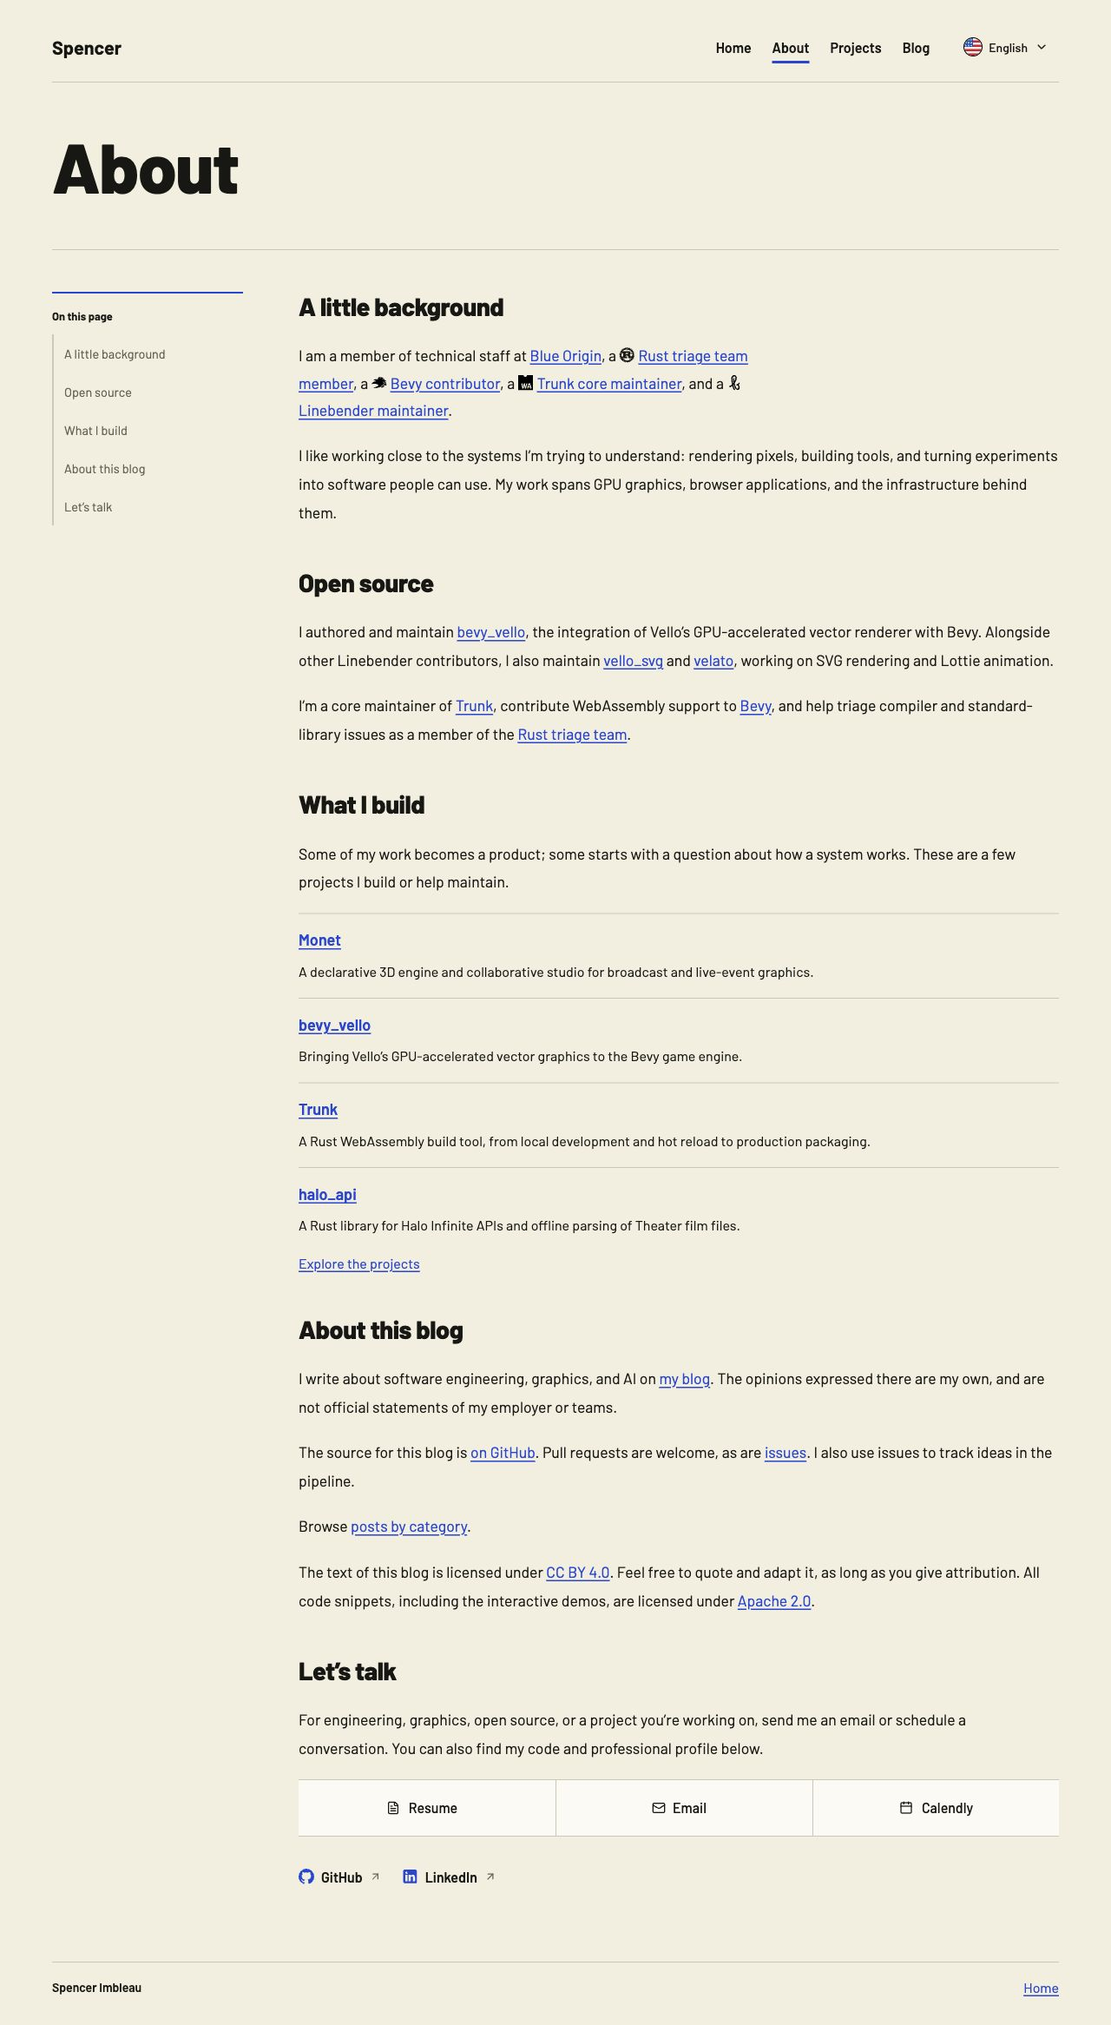
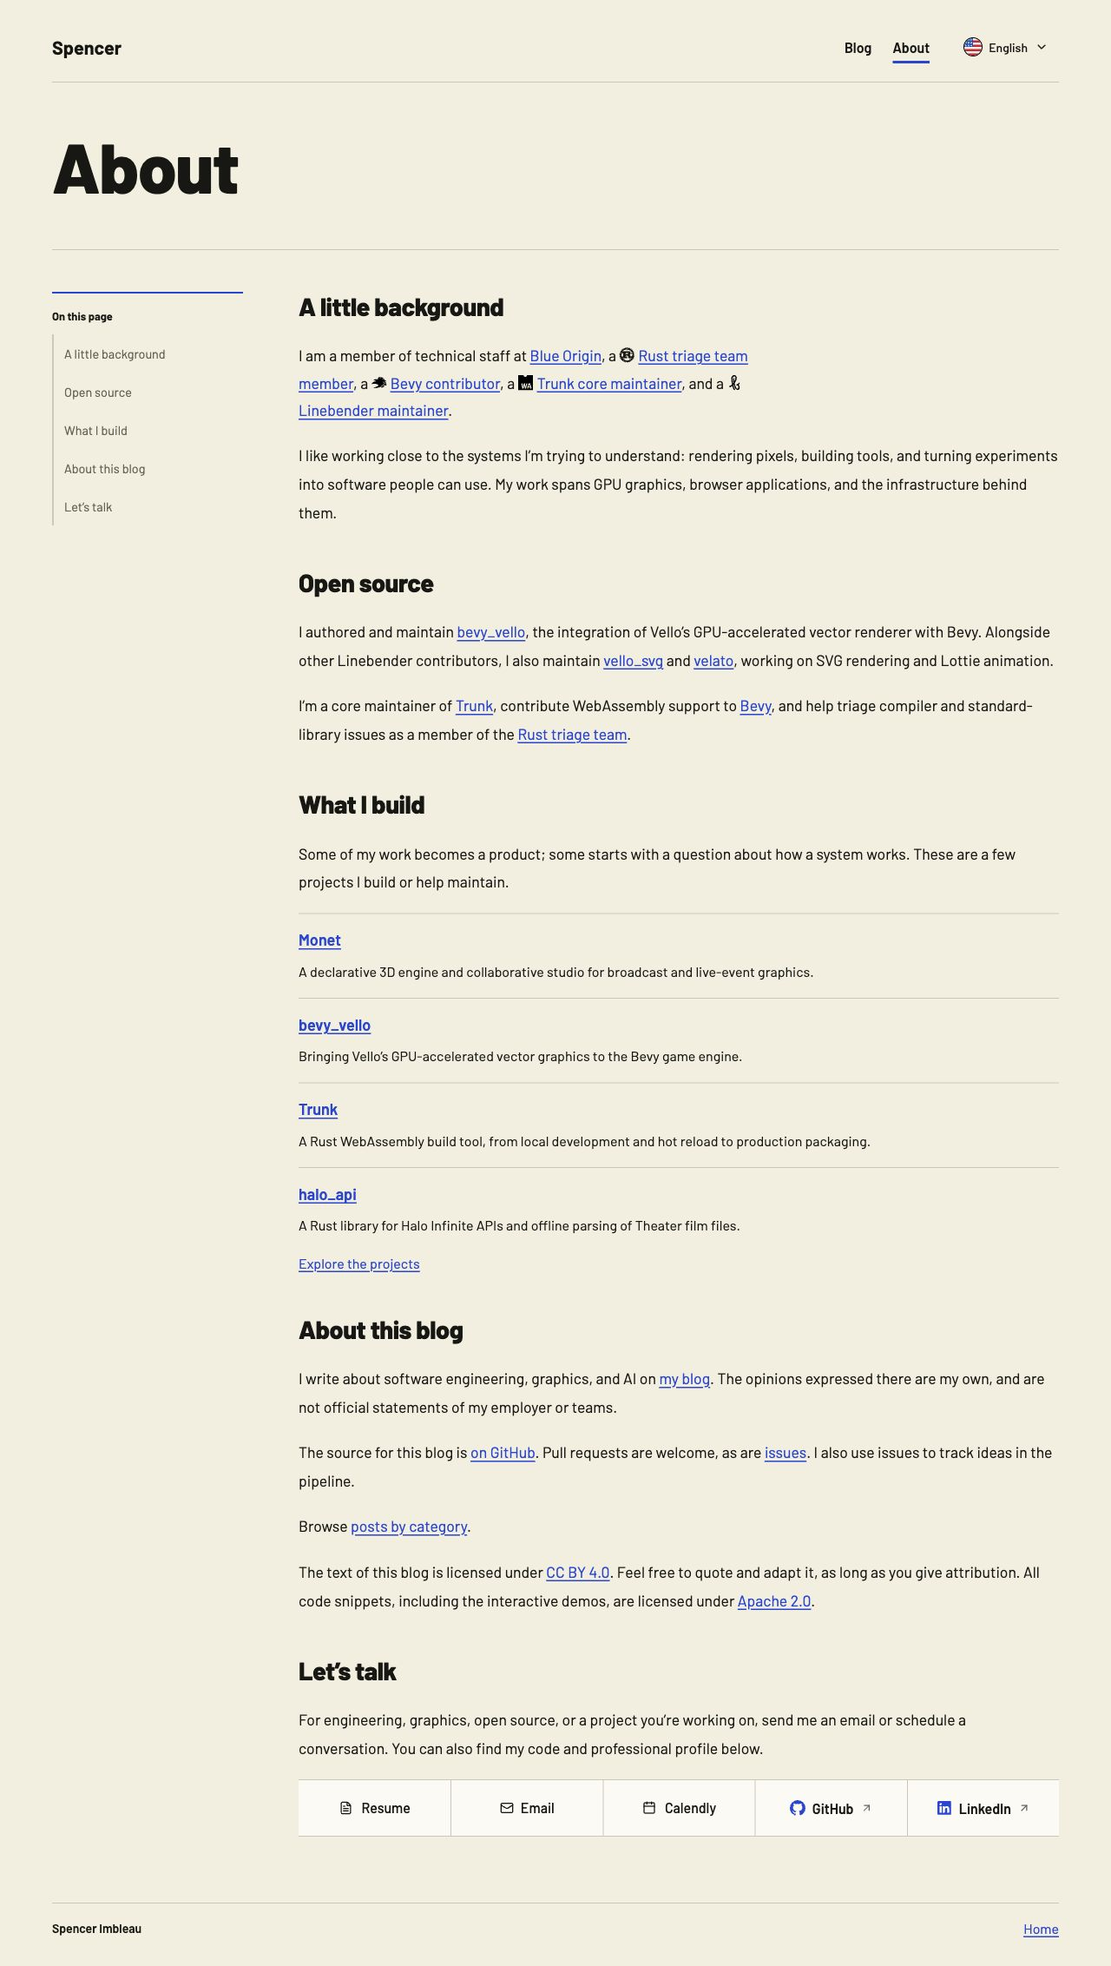
feat: streamline navigation and profile controls

diff --git a/src/pages/ResumePage.tsx b/src/pages/ResumePage.tsx
@@ -9,7 +9,7 @@ import { useProfile } from "@/hooks/useProfile"
 import { getProfileHomePath } from "@/profiles"
 
 export const ResumePage = () => {
-    const { t, routePrefix, localizedPath } = useLanguage()
+    const { t, language, routePrefix, localizedPath } = useLanguage()
     const profile = useProfile()
     const profileId = profile.id
     const resume = profile.resume
@@ -20,6 +20,16 @@ export const ResumePage = () => {
     const [showLoadingHelp, setShowLoadingHelp] = useState(false)
     const [downloading, setDownloading] = useState(false)
     const [downloadProgress, setDownloadProgress] = useState(0)
+    const [fileSize, setFileSize] = useState<number | null>(null)
+    const fileSizeLabel =
+        fileSize === null
+            ? null
+            : new Intl.NumberFormat(language, {
+                  style: "unit",
+                  unit: fileSize >= 1_000_000 ? "megabyte" : "kilobyte",
+                  unitDisplay: "narrow",
+                  maximumFractionDigits: fileSize >= 1_000_000 ? 1 : 0,
+              }).format(fileSize / (fileSize >= 1_000_000 ? 1_000_000 : 1_000))
     const [btnWidth, setBtnWidth] = useState<number | undefined>(undefined)
     const btnRef = useRef<HTMLButtonElement>(null)
 
@@ -29,6 +39,20 @@ export const ResumePage = () => {
         const timeout = window.setTimeout(() => setShowLoadingHelp(true), 4000)
         return () => window.clearTimeout(timeout)
     }, [loading])
+
+    useEffect(() => {
+        if (!resume) return
+        const controller = new AbortController()
+        fetch(resume.pdfUrl, { method: "HEAD", signal: controller.signal })
+            .then((response) => {
+                const bytes = Number(response.headers.get("content-length"))
+                if (response.ok && bytes > 0 && Number.isFinite(bytes) && !controller.signal.aborted) setFileSize(bytes)
+            })
+            .catch(() => {
+                /* Download remains available when file metadata cannot be fetched. */
+            })
+        return () => controller.abort()
+    }, [resume])
 
     const handleDownload = async () => {
         if (btnRef.current) setBtnWidth(btnRef.current.offsetWidth)
@@ -61,6 +85,7 @@ export const ResumePage = () => {
                 blob = await res.blob()
             }
 
+            setFileSize(blob.size)
             const url = URL.createObjectURL(blob)
             const anchor = document.createElement("a")
             anchor.href = url
@@ -138,31 +163,36 @@ export const ResumePage = () => {
                             {text("goBack")}
                         </a>
                     </Button>
-                    <Button
-                        ref={btnRef}
-                        size="sm"
-                        style={{ minWidth: btnWidth }}
-                        disabled={downloading}
-                        onClick={handleDownload}
-                        aria-busy={downloading}
-                    >
-                        {downloading ? (
-                            <LoaderCircle aria-hidden="true" className="animate-spin" />
-                        ) : (
-                            <Download aria-hidden="true" />
-                        )}
-                        <span>
-                            {downloading
-                                ? downloadProgress > 0
-                                    ? `${downloadProgress}%`
-                                    : text("downloading")
-                                : text("downloadResume")}
-                        </span>
-                    </Button>
+                    <div className="resume-download-actions">
+                        <a
+                            className="text-link text-sm"
+                            href={resume?.pdfUrl}
+                            target="_blank"
+                            rel="noopener noreferrer"
+                        >
+                            {text("openPdf")}
+                        </a>
+                        <Button
+                            ref={btnRef}
+                            size="sm"
+                            style={{ minWidth: btnWidth }}
+                            disabled={downloading}
+                            onClick={handleDownload}
+                            aria-busy={downloading}
+                            aria-label={downloading ? text("downloading") : text("downloadResume")}
+                            title={text("downloadResume")}
+                        >
+                            {downloading ? (
+                                <LoaderCircle aria-hidden="true" className="animate-spin" />
+                            ) : (
+                                <Download aria-hidden="true" />
+                            )}
+                            <span aria-hidden="true">
+                                {downloading && downloadProgress > 0 ? `${downloadProgress}%` : fileSizeLabel}
+                            </span>
+                        </Button>
+                    </div>
                 </div>
-                <a className="text-link mt-3 text-sm" href={resume?.pdfUrl} target="_blank" rel="noopener noreferrer">
-                    {text("openPdf")}
-                </a>
             </div>
         </>
     )

diff --git a/src/index.css b/src/index.css
@@ -439,6 +439,7 @@
 }
 .action-strip {
     display: grid;
+    gap: 0;
     grid-auto-flow: column;
     grid-auto-columns: minmax(0, 1fr);
     border-block: 1px solid var(--color-border);
@@ -857,14 +858,11 @@
         gap: 4px;
     }
     .site-navigation > button {
-        margin-inline-start: auto;
+        margin-inline-start: 8px;
     }
     .site-nav-links {
-        order: 3;
-        width: 100%;
-        margin-top: 8px;
-        margin-inline-start: 0;
-        gap: 24px;
+        margin-inline-start: auto;
+        gap: 16px;
     }
     .portfolio-page .profile-hero {
         grid-template-columns: minmax(0, 1fr);
@@ -925,10 +923,6 @@
     .profile-brand {
         flex: 1;
     }
-    .profile-brand > button {
-        font-size: 1rem;
-        padding-inline: 4px;
-    }
     .site-navigation > button {
         padding-inline: 4px;
     }
@@ -939,10 +933,58 @@
         padding-inline: 6px;
     }
     .site-nav-links {
-        justify-content: space-between;
-        gap: 10px;
+        justify-content: flex-start;
+        gap: 12px;
     }
     .site-nav-links a {
         font-size: 0.9rem;
     }
+}
+
+.action-strip > .social-strip {
+    display: contents;
+}
+.action-strip .social-strip a {
+    margin: 0;
+    min-height: 64px;
+    justify-content: center;
+    border-inline-start: 1px solid var(--color-border);
+}
+@media (max-width: 599px) {
+    .action-strip {
+        grid-auto-flow: row;
+        grid-template-columns: repeat(6, minmax(0, 1fr));
+    }
+    .action-strip > a,
+    .action-strip > .email-action {
+        grid-column: span 2;
+    }
+    .action-strip .social-strip a {
+        grid-column: span 3;
+        border-top: 1px solid var(--color-border);
+    }
+    .action-strip .social-strip a:first-child {
+        border-inline-start: 0;
+    }
+}
+
+@media (max-width: 599px) {
+    .action-strip:has(.social-strip a:only-child) > a,
+    .action-strip:has(.social-strip a:only-child) > .email-action {
+        grid-column: span 3;
+    }
+    .action-strip .social-strip a:only-child {
+        grid-column: 1 / -1;
+    }
+}
+
+.resume-download-actions {
+    display: flex;
+    align-items: center;
+    gap: 16px;
+}
+.resume-download-actions > a {
+    display: inline-flex;
+    align-items: center;
+    min-height: 44px;
 }

diff --git a/src/pages/HowIWorkPage.test.tsx b/src/pages/HowIWorkPage.test.tsx
@@ -13,6 +13,7 @@ let container: HTMLDivElement
 let root: Root
 
 beforeEach(async () => {
+    vi.stubGlobal("fetch", vi.fn().mockRejectedValue(new Error("Offline in test")))
     localStorage.clear()
     document.cookie = "preferredLanguage=; Path=/; Max-Age=0"
     await i18n.changeLanguage("en")
@@ -24,6 +25,7 @@ beforeEach(async () => {
 afterEach(async () => {
     await act(async () => root.unmount())
     container.remove()
+    vi.unstubAllGlobals()
     delete document.documentElement.dataset.site
     localStorage.clear()
     document.cookie = "preferredLanguage=; Path=/; Max-Age=0"
@@ -45,6 +47,23 @@ const renderPage = async (site: string, path: string) => {
 const languages: SupportedLanguage[] = ["en", "fr", "fa"]
 
 describe("How I Work routing", () => {
+    it.each([
+        { size: "1500000", label: "1.5MB" },
+        { size: null, label: "" },
+    ])("shows download metadata accessibly for size $size", async ({ size, label }) => {
+        vi.stubGlobal("fetch", vi.fn().mockResolvedValue({ ok: true, headers: { get: () => size } }))
+        await renderPage("spencer", "/en/resume")
+        await vi.waitFor(async () => {
+            await act(async () => {})
+            expect(container.querySelector('.resume-download-actions button[aria-label="Download"]')).not.toBeNull()
+        })
+        const controls = container.querySelector(".resume-download-actions")!
+        expect(controls.querySelector("button")?.textContent).toBe(label)
+        expect(controls.querySelector("a")?.textContent).toBe("Open PDF")
+        expect(controls.querySelector("button")?.disabled).toBe(false)
+        expect(fetch).toHaveBeenCalledWith(expect.any(String), expect.objectContaining({ method: "HEAD" }))
+    })
+
     const routes = languages.flatMap((language) =>
         ["spencer", "local"].flatMap((site) =>
             ["", "/"].map((slash) => ({

diff --git a/src/components/ProfileHeader.tsx b/src/components/ProfileHeader.tsx
@@ -17,9 +17,7 @@ export const ProfileHeader = ({ current = "home" }: { current?: "home" | "about"
                 {profile.firstName}
             </a>
             <nav aria-label={t("navigation.label")} className="site-nav-links">
-                <a href={home} aria-current={current === "home" ? "page" : undefined}>
-                    {t("navigation.home")}
-                </a>
+                {profile.blog?.showOnHomepage && blog && <a href={blog}>{t("home.blog")}</a>}
                 {profile.about && (
                     <a
                         href={localizedPath(`${base}${profile.about.path}`)}
@@ -28,8 +26,6 @@ export const ProfileHeader = ({ current = "home" }: { current?: "home" | "about"
                         {t("navigation.about")}
                     </a>
                 )}
-                {profile.projects?.length ? <a href={`${home}#projects`}>{t("navigation.projects")}</a> : null}
-                {profile.blog?.showOnHomepage && blog && <a href={blog}>{t("home.blog")}</a>}
             </nav>
             <LanguageSwitcher />
         </header>

diff --git a/src/pages/AboutPage.tsx b/src/pages/AboutPage.tsx
@@ -2,7 +2,6 @@ import { Helmet } from "react-helmet-async"
 import { Trans } from "react-i18next"
 import { ProfileHeader } from "@/components/ProfileHeader"
 import { ProfileActions } from "@/components/ProfileActions"
-import { ProfileSocials } from "@/components/ProfileSocials"
 import { ProfileBiography } from "@/components/ProfileBiography"
 import { useLanguage } from "@/hooks/useLanguage"
 import { useProfile } from "@/hooks/useProfile"
@@ -195,7 +194,6 @@ export const AboutPage = () => {
                         <h2>{t("aboutPage.contact.title")}</h2>
                         <p>{t("aboutPage.contact.body")}</p>
                         <ProfileActions />
-                        <ProfileSocials />
                     </section>
                 </article>
             </div>

diff --git a/src/pages/HomePage.tsx b/src/pages/HomePage.tsx
@@ -3,7 +3,6 @@ import { Trans } from "react-i18next"
 import { LatestPosts } from "@/components/LatestPosts"
 import { Helmet } from "react-helmet-async"
 import { ProfileHeader } from "@/components/ProfileHeader"
-import { ProfileSocials } from "@/components/ProfileSocials"
 import { ProfilePortrait } from "@/components/ProfilePortrait"
 import { ProfileActions } from "@/components/ProfileActions"
 import { ProfileBiography } from "@/components/ProfileBiography"
@@ -77,7 +76,6 @@ export const HomePage = () => {
                                 />
                             </p>
                         )}
-                        <ProfileSocials />
                     </div>
                     <ProfilePortrait />
                 </section>

diff --git a/src/components/ProfileActions.tsx b/src/components/ProfileActions.tsx
@@ -1,6 +1,7 @@
 import { useEffect, useRef, useState } from "react"
 import { Calendar, Check, Copy, FileText, Mail } from "lucide-react"
 import { useTranslation } from "react-i18next"
+import { ProfileSocials } from "@/components/ProfileSocials"
 import { Button } from "@/components/ui/button"
 import { useProfile } from "@/hooks/useProfile"
 import { useLanguage } from "@/hooks/useLanguage"
@@ -80,6 +81,7 @@ export const ProfileActions = () => {
                     </a>
                 </Button>
             )}
+            <ProfileSocials />
         </div>
     )
 }

diff --git a/docs/ui-audit.md b/docs/ui-audit.md
@@ -5,18 +5,18 @@ with a clearer page hierarchy, consistent controls, and dedicated project and Ab
 The homepage and About structure take inspiration from [den.dev](https://den.dev),
 using this site's own colors, portrait, decorations, and copy.
 
-| Finding                                                         | Change                                                                                                                                         |
-| --------------------------------------------------------------- | ---------------------------------------------------------------------------------------------------------------------------------------------- |
-| Uppercase display styling reduced readability.                  | Sentence-case Barlow headings and controls, a personal greeting, and a full biography at every screen size.                                    |
-| The portrait lost its distinctive framing.                      | Offset blue frame, corner marks, rotated name sticker, star, and scribble; brief entrance motion respects reduced-motion preferences.          |
-| Projects contained too many visual labels.                      | Title and description only, with a boxed external-link marker. Every project opens in a new tab.                                               |
-| The homepage did not surface recent writing.                    | Latest displays three published posts from a small Jekyll-generated JSON feed; the blog link remains available if the feed fails.              |
-| Contact actions lacked a clear home.                            | A horizontal Resume, Email, and Calendly bar; email reveals in a compact panel. GitHub and LinkedIn sit beside the introduction.               |
-| Profile switching and biography expansion added distractions.   | Removed the homepage profile dropdown and expansion controls.                                                                                  |
-| About content was split across the blog and website.            | Migrated ownership, contribution links, categories, and license details into the translated site About page. The old blog URL redirects there. |
-| Cross-page anchors could miss their target while React mounted. | Restore fragment scrolling after sections mount, with regression coverage.                                                                     |
-| MUI and custom controls duplicated the UI system.               | Owned shadcn/ui components, Radix menus, and Tailwind tokens; matching static Jekyll CSS.                                                      |
-| Document controls and email feedback were incomplete.           | Language switching, consistent active/alternate navigation, a persistent Open PDF link, and translated copy feedback.                          |
+| Finding                                                         | Change                                                                                                                                                             |
+| --------------------------------------------------------------- | ------------------------------------------------------------------------------------------------------------------------------------------------------------------ |
+| Uppercase display styling reduced readability.                  | Sentence-case Barlow headings and controls, a personal greeting, and a full biography at every screen size.                                                        |
+| The portrait lost its distinctive framing.                      | Offset blue frame, corner marks, rotated name sticker, star, and scribble; brief entrance motion respects reduced-motion preferences.                              |
+| Projects contained too many visual labels.                      | Title and description only, with a boxed external-link marker. Every project opens in a new tab.                                                                   |
+| The homepage did not surface recent writing.                    | Latest displays three published posts from a small Jekyll-generated JSON feed; the blog link remains available if the feed fails.                                  |
+| Contact actions lacked a clear home.                            | One bar contains Resume, Email, Calendly, GitHub, and LinkedIn; email reveals in a compact panel.                                                                  |
+| Profile switching and biography expansion added distractions.   | Removed the homepage profile dropdown and expansion controls. Header links are Blog then About, with the profile name linking home.                                |
+| About content was split across the blog and website.            | Migrated ownership, contribution links, categories, and license details into the translated site About page. The old blog URL redirects there.                     |
+| Cross-page anchors could miss their target while React mounted. | Restore fragment scrolling after sections mount, with regression coverage.                                                                                         |
+| MUI and custom controls duplicated the UI system.               | Owned shadcn/ui components, Radix menus, and Tailwind tokens; matching static Jekyll CSS.                                                                          |
+| Document controls and email feedback were incomplete.           | Language switching, consistent active/alternate navigation, an Open PDF link beside an accessible download icon with live file size, and translated copy feedback. |
 
 ![Refreshed Spencer homepage](ui-refresh-homepage.jpg)
 
@@ -37,7 +37,7 @@ using this site's own colors, portrait, decorations, and copy.
 
 ## Validation
 
-- `pnpm check`: Prettier, ESLint, TypeScript, 216 tests, and the Vite build.
+- `pnpm check`: Prettier, ESLint, TypeScript, 218 tests, and the Vite build.
 - `HOMEPAGE_SITE=spencer pnpm build` and `HOMEPAGE_SITE=sara pnpm build`, including Jekyll.
 - `terraform -chdir=terraform fmt -check -recursive`,
   `terraform -chdir=terraform init -backend=false -input=false -lockfile=readonly`,

diff --git a/AGENTS.md b/AGENTS.md
@@ -94,13 +94,18 @@ and distinguish Spencer's contribution from the team's achievements.
 - Spencer's About page and projects live in profile configuration. Project
   descriptions and About copy use all three locale files. Use verified project facts;
   distinguish authorship from maintenance or contributions.
-- Keep Resume, Email, and Calendly in the horizontal action bar, with GitHub and LinkedIn
-  presented as clear icon-and-name links. Do not add unconfirmed social accounts.
+- Keep Resume, Email, Calendly, GitHub, and LinkedIn together in the horizontal
+  action/social bar, using clear icon-and-name links. Do not add unconfirmed social accounts.
 
 - The homepage introduces the profile with a personal greeting and always shows the full
   biography. Do not add a profile dropdown or biography expansion control.
+- The profile header links are Blog, then About. The profile name links home;
+  do not add separate Home or Projects links to the header.
 - Spencer's homepage sections are Latest and Projects. Latest uses Jekyll's generated
   published-post feed; blog titles and excerpts remain English. Project cards contain
   only a title, description, and boxed external-link indicator and open in new tabs.
 - Spencer's former blog About URL redirects to his site About page. Keep the blog's
   ownership, contribution, category, and license information on that translated page.
+
+- On the résumé page, group Open PDF beside the download icon and actual PDF file size.
+  Keep a translated accessible download label even when its visible text is only the size.
